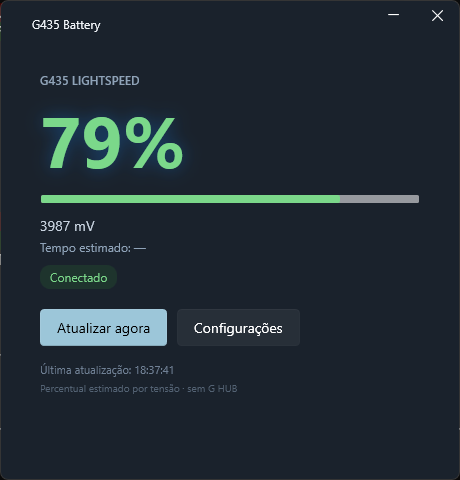
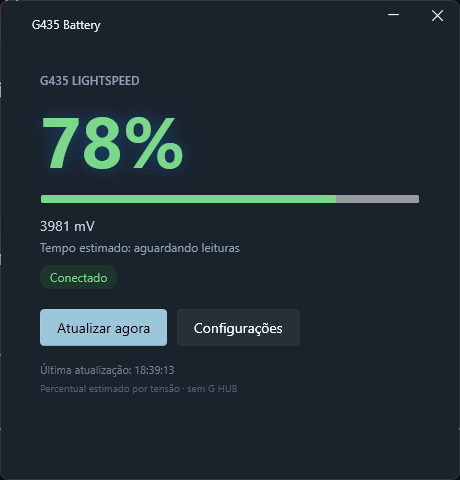
Add changelog and aguardando leituras state

diff --git a/src/G435Monitor/MainWindow.xaml b/src/G435Monitor/MainWindow.xaml
@@ -72,7 +72,7 @@
                            Margin="0,12,0,0" />
 
                 <TextBlock x:Name="RemainingText"
-                           Text="Tempo estimado: —"
+                           Text="Tempo estimado: aguardando leituras"
                            Foreground="#8FA3B8"
                            FontSize="12"
                            Margin="0,4,0,0" />

diff --git a/src/G435Monitor/MainWindow.xaml.cs b/src/G435Monitor/MainWindow.xaml.cs
@@ -272,7 +272,7 @@ public partial class MainWindow : Wpf.Ui.Controls.FluentWindow
 
             RenderBattery(shown);
             MillivoltsText.Text = $"{mv} mV";
-            RemainingText.Text = $"Tempo estimado: {remaining ?? "—"}";
+            RemainingText.Text = $"Tempo estimado: {remaining ?? "aguardando leituras"}";
             StatusText.Text = "Conectado";
             StatusText.Foreground = new SolidColorBrush(
                 System.Windows.Media.Color.FromRgb(0x7B, 0xD8, 0x8A));
@@ -450,7 +450,7 @@ public partial class MainWindow : Wpf.Ui.Controls.FluentWindow
         _chargingPeakMv = 0;
         _frozenPct = null;
         _wasCharging = false;
-        RemainingText.Text = "Tempo estimado: —";
+        RemainingText.Text = "Tempo estimado: aguardando leituras";
     }
 
     private void RenderBattery(int shown)

diff --git a/CHANGELOG.md b/CHANGELOG.md
@@ -1,0 +1,45 @@
+# Changelog
+
+## [1.1.2] — 2026-11-14
+
+### Changed
+
+- O rótulo “Restante estimado” passou a ser **“Tempo estimado”**.
+- Quando ainda não há leituras suficientes, o app mostra
+  **“aguardando leituras”** em vez de “—”.
+
+## [1.1.1] — 2026-11-14
+
+### Changed
+
+- Renomeado “Restante estimado” para “Tempo estimado”.
+
+## [1.1.0] — 2026-11-14
+
+### Added
+
+- **Notificações de bateria baixa** em 20%, 10% e 5%, uma vez por ciclo de
+  descarga, com opção nas Configurações.
+- **Tempo estimado** até precisar recarregar, calculado pela descida real da
+  tensão.
+- **Estado desconectado claro:** ícone cinza/riscado na bandeja e dica na
+  janela com instruções.
+- **Mensagens amigáveis** para dongle ausente, fone desligado/fora de alcance
+  e leitura inválida.
+- **Atualização automática** ao voltar do standby e ao reconectar o dongle USB.
+
+### Changed
+
+- Ajustes de altura/layout da janela principal e das Configurações.
+- README e screenshot atualizados.
+
+## [1.0.0] — 2026-11-14
+
+### Added
+
+- Primeira versão pública.
+- Leitura da bateria do G435 LIGHTSPEED pelo dongle HID, sem G HUB.
+- Percentual com histerese de 2% e tensão em mV.
+- Estado Conectado/Desconectado.
+- Ícone de bandeja dinâmico conforme a porcentagem.
+- Bandeja, instância única, iniciar com o Windows e intervalo configurável.

diff --git a/README.md b/README.md
@@ -12,7 +12,7 @@ Aplicativo independente para Windows 11 que mostra a bateria do
 - Ícone de bandeja dinâmico: bateria com preenchimento proporcional e cores por
   nível (vermelho ≤10%, âmbar 11–39%, verde ≥40%).
 - **Tempo estimado** pela descida real da tensão (ex.: “~14 h”),
-  com “—” até haver dados suficientes.
+  com “aguardando leituras” até haver dados suficientes.
 - **Notificações de bateria baixa** em 20%, 10% e 5%, uma vez por ciclo de
   descarga; podem ser desativadas nas Configurações.
 - **Estado desconectado claro:** ícone cinza/riscado na bandeja e dica na
@@ -33,6 +33,8 @@ Aplicativo independente para Windows 11 que mostra a bateria do
 1. Baixe o ZIP em [Releases](../../releases/latest).
 2. Extraia e execute `G435Monitor.exe`.
 3. Fechar a janela minimiza para a bandeja. Use o menu da bandeja para sair.
+
+Histórico de mudanças: [CHANGELOG.md](CHANGELOG.md).
 
 ## Compilar
 
